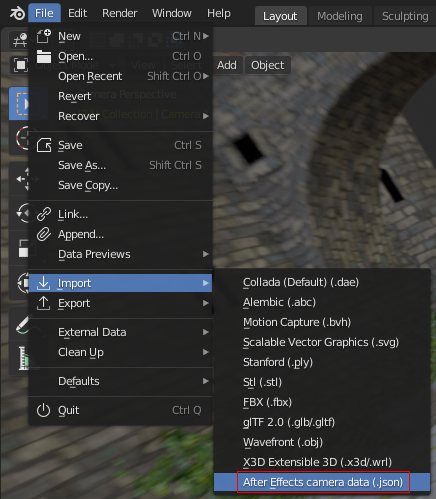
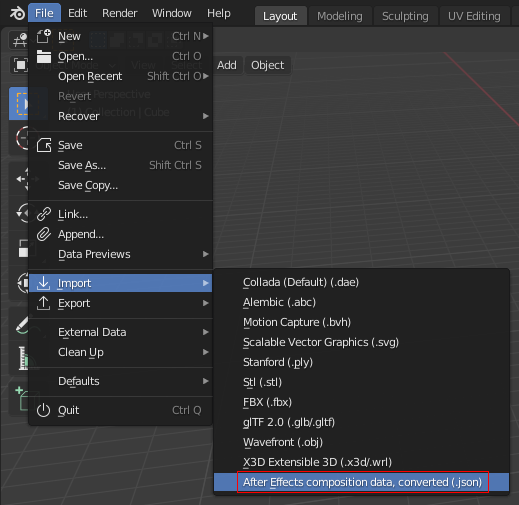
Update README

diff --git a/README.md b/README.md
@@ -1,24 +1,23 @@
-# ae-blender-camera-export
+# after-effects-to-blender-export
 
-This repo includes a script for After Effects, and add-on for Blender, that allows animated camera data to be exported from the former to the latter.
+This repo includes a script for After Effects, and add-on for Blender, that allows animated composition layer data to be exported from the former to the latter.
 
 ## Installation / Usage (After Effects)
 
-To install the After Effects script, first [download it](https://github.com/adroitwhiz/ae-blender-camera-export/raw/master/Export%20Camera%20Data%20to%20JSON.jsx) and then select it via File > Scripts > Install Script File...:
+To install the After Effects script, first [download it](https://github.com/adroitwhiz/after-effects-to-blender-export/raw/master/Export%Composition%20Data%20to%20JSON.jsx) and then select it via File > Scripts > Install Script File...:
 
 ![AE step 1](docs/ae-step1.png)
 
 You'll need to restart After Effects after installing it.
 
-To use it, you must first select the cameras you want to export:
-
+Make sure that "Allow Scripts to Write Files and Access Network" is enabled:
 ![AE step 2](docs/ae-step2.png)
 
-Then, make sure you're in the Composition view:
+To use the script, you must first make sure you're in the Composition view:
 
 ![AE step 3](docs/ae-step3.png)
 
-And run the script:
+Then run the script:
 
 ![AE step 4](docs/ae-step4.png)
 
@@ -31,12 +30,19 @@ When you run the script, a dialog box will appear:
 The settings are as follows:
 
 #### Save to
-Choose the destination of the exported camera data file. This file can then be imported into Blender.
+Choose the destination of the exported composition data file. This file can then be imported into Blender.
 
 #### Time range
+Some animated properties, and properties controlled via expressions, have keyframes that cannot be directly imported into Blender, and they must be "baked" in After Effects, meaning that the property's value is calculated once per frame. This setting controls the time range that the keyframes will be generated over.
 - "Whole comp": keyframes will be generated for the entire duration of the composition.
 - "Work area": keyframes will only be generated within the composition's work area.
-- "Camera layer duration": keyframes will only be generated within the duration(s) of the exported camera layer(s).
+- "Layer duration": keyframes will only be generated within the duration(s) of the exported layer(s).
+
+#### Export selected layers only
+When checked, this ensures that only the layers you select will be exported. If "Bake transforms" is not checked, the selected layers' parents will be imported as well even if they aren't selected, in order to ensure that the child layers are properly transformed.
+
+#### Bake transforms
+When checked, all layer transforms will be "baked" in After Effects instead of being imported keyframes-and-all into Blender. In case of a bug in the importer, complicated scenarios (like a 3D layer parented to a 2D layer parented to a 3D layer), or unimplemented features (like Auto-Orient), this may be necessary.
 
 #### Comp camera is centered
 
@@ -46,15 +52,39 @@ If checked, the exporter will treat the center of the After Effects composition 
 
 ## Installation / Usage (Blender)
 
-To install the Blender add-on, [download](https://github.com/adroitwhiz/ae-blender-camera-export/raw/master/import-camera-to-blender.py), install, and then enable it via the add-on preferences:
+To install the Blender add-on, [download](https://github.com/adroitwhiz/after-effects-to-blender-export/raw/master/import-comp-to-blender.py), install, and then enable it via the add-on preferences:
 
 ![Blender step 1](docs/blender-step1.png)
 
-To import camera data exported from After Effects, simply navigate to File > Import > After Effects Camera data (.json):
+To import camera data exported from After Effects, navigate to File > Import > After Effects composition data, converted (.json):
 
 ![Blender step 2](docs/blender-step2.png)
 
-Then navigate to the .json file exported via the After Effects script. This will create cameras in your scene that match the exported After Effects cameras.
+There are several import options on the righthand pane of the file dialog:
+
+![Blender step 3](docs/blender-step3.png)
+
+#### Scale Factor
+This is the factor by which all units in the imported composition will be scaled. The default value, 0.01, maps one pixel to one centimeter, which matches Cinema 4D.
+
+#### Comp Center to Origin
+If checked, this will position objects relative to Blender's origin rather than the composition center (which is down and to the right of Blender's origin).
+
+This matches the Cineware option for using a centered comp camera, and you should check this box if you select that option:
+
+![Centered comp camera option](docs/ae-centered-comp-camera.png)
+
+#### Use Comp Resolution
+If checked, this will set the scene's render resolution to the resolution of the imported composition.
+
+#### Create New Collection
+If checked, this will place all imported objects into a new collection.
+
+#### Adjust Frame Start/End
+If checked, this will adjust the "Start"/"End" frame range in the timeline to the imported composition's work area.
+
+Once the desired options have been set, navigate to the .json file exported via the After Effects script, and click Import AE Comp:
+![Blender step 4](docs/blender-step4.png)
 
 ## Development
 
@@ -69,6 +99,31 @@ Or if you're on Windows:
 py -3 util\preprocess.py
 ```
 
-This will generate `Export Camera Data to JSON.jsx`.
+This will generate `Export Composition Data to JSON.jsx`.
 
-If you're working on the script, you don't need to re-preprocess the file every time you make a change--the `@include` directives are also recognized by After Effects itself. Simply run the script file located in `export-camera-from-ae` via File > Scripts > Run Script File.
+If you're working on the script, you don't need to re-preprocess the file every time you make a change--the `@include` directives are also recognized by After Effects itself. Simply run the script file located in `export-comp-from-ae` via File > Scripts > Run Script File.
+
+## Roadmap
+
+- Import options:
+    - Toggle flip of Y/Z axes
+    - Framerate:
+        - Set Blender framerate to comp framerate
+        - Maintain frame numbers
+        - Remap comp framerate to Blender framerate
+
+- After Effects features:
+    - Pixel aspect ratio (AE expands horizontally, Blender crops vertically according to "Sensor Fit")
+    - Nested 3D compositions
+    - Images/videos as planes
+    - Lights
+    - Material options
+    - Text layers
+    - Shape layers
+    - Opacity
+    - Convert layer in/out points to Disable in Viewport/Render keyframes
+
+- Transforms:
+    - 3D layer -> 2D layer -> 3D layer parent chain loses Z-transforming properties
+    - Remove unanimated anchor points especially on null layers
+    - Auto-Orient
